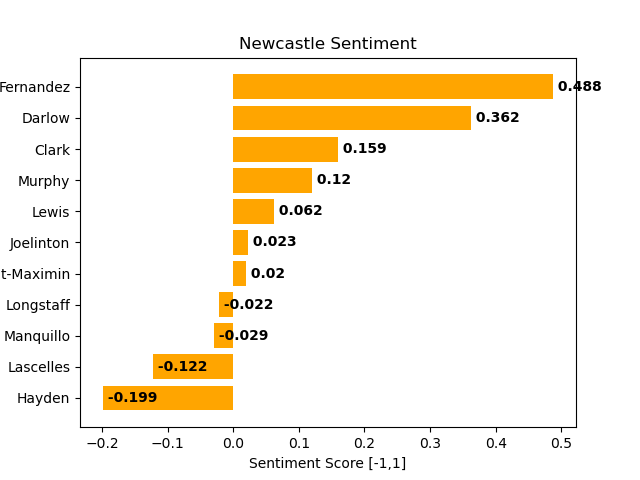
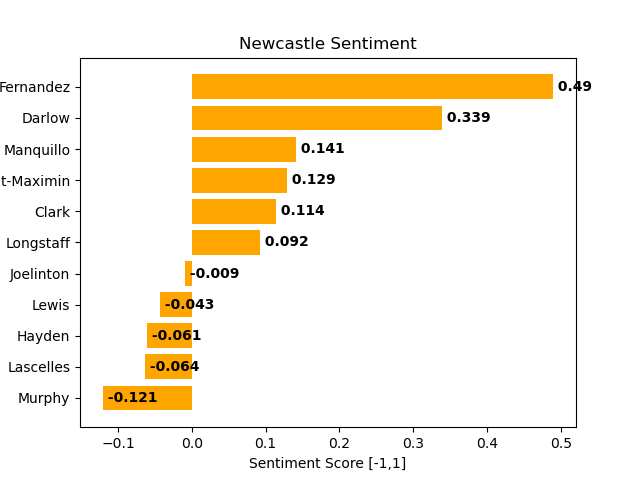
more updates

diff --git a/maincode.py b/maincode.py
@@ -5,6 +5,7 @@ from rank_bm25 import BM25Okapi # import BM25
 import matplotlib.pyplot as plt # import plotting
 plt.ion()
 
+
 auth = tweepy.OAuthHandler(consumer_key, consumer_secret)
 auth.set_access_token(access_token, access_token_secret)
 
@@ -12,55 +13,60 @@ api = tweepy.API(auth,wait_on_rate_limit=True)
 
 ### initialization of team names and starting 11 from the game
 
-Team1 = "Chelsea"
-Team2 = "Newcastle"
+team1 = "Chelsea"
+team2 = "Newcastle"
 
-#Team1
-Team1_Player1 = "Mendy"
-Team1_Player2 = "Rudiger"
-Team1_Player3 = "Zouma"
-Team1_Player4 = "Chilwell"
-Team1_Player5 = "James"
-Team1_Player6 = "Kante"
-Team1_Player7 = "Mount"
-Team1_Player8 = "Kovacic"
-Team1_Player9 = "Abraham"
-Team1_Player10 = "Werner"
-Team1_Player11 = "Ziyech"
+#team1
+team1_Player1 = "Mendy"
+team1_Player2 = "Rudiger"
+team1_Player3 = "Zouma"
+team1_Player4 = "Chilwell"
+team1_Player5 = "James"
+team1_Player6 = "Kante"
+team1_Player7 = "Mount"
+team1_Player8 = "Kovacic"
+team1_Player9 = "Abraham"
+team1_Player10 = "Werner"
+team1_Player11 = "Ziyech"
 
-#Team2
-Team2_Player1 = "Joelinton"
-Team2_Player2 = "Saint-Maximin"
-Team2_Player3 = "Hayden"
-Team2_Player4 = "Longstaff"
-Team2_Player5 = "Murphy"
-Team2_Player6 = "Lewis"
-Team2_Player7 = "Clark"
-Team2_Player8 = "Lascelles"
-Team2_Player9 = "Fernandez"
-Team2_Player10 = "Manquillo"
-Team2_Player11 = "Darlow"
+#team2
+team2_Player1 = "Joelinton"
+team2_Player2 = "Saint-Maximin"
+team2_Player3 = "Hayden"
+team2_Player4 = "Longstaff"
+team2_Player5 = "Murphy"
+team2_Player6 = "Lewis"
+team2_Player7 = "Clark"
+team2_Player8 = "Lascelles"
+team2_Player9 = "Fernandez"
+team2_Player10 = "Manquillo"
+team2_Player11 = "Darlow"
 
-Team1_player_array = [Team1_Player1, Team1_Player2, Team1_Player3, Team1_Player4, Team1_Player5, Team1_Player6, Team1_Player7,
-Team1_Player8, Team1_Player9, Team1_Player10, Team1_Player11] # player array for Team 1
+team1_player_array = [team1_Player1, team1_Player2, team1_Player3, team1_Player4, team1_Player5, team1_Player6, team1_Player7,
+team1_Player8, team1_Player9, team1_Player10, team1_Player11] # player array for Team 1
 
-Team2_player_array = [Team2_Player1, Team2_Player2, Team2_Player3, Team2_Player4, Team2_Player5, Team2_Player6, Team2_Player7,
-Team2_Player8, Team2_Player9, Team2_Player10, Team2_Player11] # player array for Team 2
+team2_player_array = [team2_Player1, team2_Player2, team2_Player3, team2_Player4, team2_Player5, team2_Player6, team2_Player7,
+team2_Player8, team2_Player9, team2_Player10, team2_Player11] # player array for Team 2
 
-Team1_player_sentiment = [] # place holder array for players senitment scores
-Team1_player_tweets = [] # place holder for the tweets for each player that match threshold
+team1_player_sentiment = [] # place holder array for players senitment scores
+team1_player_tweets = [] # place holder for the tweets for each player that match threshold
 
-Team2_player_sentiment = [] # place holder array for players senitment scores
-Team2_player_tweets = [] # place holder for the tweets for each player that match threshold
+team2_player_sentiment = [] # place holder array for players senitment scores
+team2_player_tweets = [] # place holder for the tweets for each player that match threshold
+
+### define the number of tweets we want to sort for and subjective threshold
+
+number_of_tweets = 100 # how many tweets we want to search for
+threshold = 0.10 # threshold for subjectivity [0,1]
 
 ### setting date range, ideally run day after the game
 
 date_since = "2020-11-21"
 date_until = "2020-11-22"
 
-### implementiation for specific terms relating to the game, perhaps for ranking
+### implementiation for specific terms relating to the game, perhaps for ranking in BM25Okapi
 
-game_terms = ['pass','goal','defend','dribble']
+terms = ["score","assist"] # want to weight the sentiment for these terms more than usual, specifically scoring a goal or assisting a goal should be weighted more
 
 ### code to sort by sentiment rating
 
@@ -68,124 +74,127 @@ def sentiment_element(element): # define sorting function
     return element[1]
 
 
-### implementation ranking function to weight?
+### implementation of BM25Okapi to rank relevant of tweets in relation the game
+
+def rank_scores(corpus, terms):
+    bm25 = BM25Okapi(corpus)
+    tweet_scores = bm25.get_scores(terms)
+    top_10_tweets = bm25.get_top_n(terms, corpus, n=10)
+    return tweet_scores
+
+def rank_top(corpus, terms):
+    bm25 = BM25Okapi(corpus)
+    top_10_tweets = bm25.get_top_n(terms, corpus, n=10)
+    return top_10_tweets
 
 
+### loop for Team 1 to find sentiment
 
 
-
-
-
-
-
-
-
-
-
-
-
-### implementation to find highest or lowest sentiment tweets
-
-
-
-
-
-
-
-
-
-
-
-
-
-
-### loop for Team 1
-
-
-# note for self, maybe want to specify POS and relationship to avoid bad classification
-
-
-for i in Team1_player_array: # loop through each player
-    search_words = [i, Team1, Team2] # search array for each player
-    tweets = tweepy.Cursor(api.search,search_words,lang="en",since=date_since).items(100) # find tweets for each player
+for i in team1_player_array: # loop through each player
+    search_words = [i, team1] # search array for each player
+    tweets = tweepy.Cursor(api.search,search_words,lang="en",since=date_since,until=date_until).items(number_of_tweets) # find tweets for each player
     tweet_array = []
     sentiment_array = []
+    combined_array = []
 
     for tweet in tweets:
         tweet_array.append(tweet.text)
         sentiment_array.append(TextBlob(tweet.text).sentiment) # append the sentiment into array
 
-    Team1_player_tweets.append(tweet_array) # create array of all of the respective player tweets
+    for j in range(0,len(tweet_array)): # create combined array to sort
+        combined_array.append([tweet_array[j],sentiment_array[j][0]])
+
+    combined_array.sort(key=sentiment_element)  # sort tweet array by sentiment (remember that lowest sentiment is first)
+
+    team1_player_tweets.append(combined_array) # create array of all of the respective player tweets, which are now sorted by sentiment
 
     sentiment_count = 0 # want to only count sentiments that are subjective
     sentiment_total = 0 # keep track for average
     for sentiment in sentiment_array:
-        if (sentiment[1] >= 0.10): # set threshold for objectivity, 0 = objective, 1 = subjective
+        if (sentiment[1] >= threshold): # set threshold for objectivity, 0 = objective, 1 = subjective
             sentiment_count = sentiment_count + 1
             sentiment_total = sentiment_total + sentiment[0]
 
     if (sentiment_total == 0):
-        Team1_player_sentiment.append([i,0,sentiment_count]) # handle 0 count
+        team1_player_sentiment.append([i,0,sentiment_count]) # handle 0 count
     else:
-        Team1_player_sentiment.append([i,sentiment_total/sentiment_count,sentiment_count])
+        team1_player_sentiment.append([i,sentiment_total/sentiment_count,sentiment_count])
 
 
-### loop for Team 2
+### loop for Team 2 to find sentiment
 
-for i in Team2_player_array: # loop through each player
-    search_words = [i, Team1, Team2] # search array for each player
-    tweets = tweepy.Cursor(api.search,search_words,lang="en",since=date_since).items(100) # find tweets for each player
+for i in team2_player_array: # loop through each player
+    search_words = [i, team2] # search array for each player
+    tweets = tweepy.Cursor(api.search,search_words,lang="en",since=date_since,until=date_until).items(number_of_tweets) # find tweets for each player
     tweet_array = []
     sentiment_array = []
+    combined_array = []
 
     for tweet in tweets:
         tweet_array.append(tweet.text)
         sentiment_array.append(TextBlob(tweet.text).sentiment) # append the sentiment into array
 
-    Team2_player_tweets.append(tweet_array) # create array of all of the respective player tweets
+    for j in range(0,len(tweet_array)): # create combined array to sort
+        combined_array.append([tweet_array[j],sentiment_array[j][0]])
+
+    combined_array.sort(key=sentiment_element)  # sort tweet array by sentiment (remember that lowest sentiment is first)
+
+    team2_player_tweets.append(combined_array) # create array of all of the respective player tweets, which are now sorted by sentiment
 
     sentiment_count = 0 # want to only count sentiments that are subjective
     sentiment_total = 0 # keep track for average
     for sentiment in sentiment_array:
-        if (sentiment[1] >= 0.10): # set threshold for objectivity
+        if (sentiment[1] >= threshold): # set threshold for objectivity
             sentiment_count = sentiment_count + 1
             sentiment_total = sentiment_total + sentiment[0]
 
 
     if (sentiment_total == 0):
-        Team2_player_sentiment.append([i,0,sentiment_count]) # handle 0 count
+        team2_player_sentiment.append([i,0,sentiment_count]) # handle 0 count
     else:
-        Team2_player_sentiment.append([i,sentiment_total/sentiment_count,sentiment_count])
+        team2_player_sentiment.append([i,sentiment_total/sentiment_count,sentiment_count])
+
+
+### display the top 10 min and max sentiment tweets for a player based on team
+
+def display_tweets(team, player_number):
+    if (team == team1):
+        print(team1_player_tweets[player_number-1][0:9]) # negative sentiment
+        print(team1_player_tweets[player_number-1][number_of_tweets-11:number_of_tweets-1]) # positive sentiment
+    else:
+        print(team2_player_tweets[player_number-1][0:9]) # negative sentiment
+        print(team2_player_tweets[player_number-1][number_of_tweets-11:number_of_tweets-1]) # positive sentiment
 
 
 ### sort each senitment array and organize for plotting
 
-Team1_player_sentiment.sort(key=sentiment_element)
-Team2_player_sentiment.sort(key=sentiment_element)
+team1_player_sentiment.sort(key=sentiment_element)
+team2_player_sentiment.sort(key=sentiment_element)
 
 # create index for team 1
-Team1_Index = []
-Team1_Sentiment = []
-for i in Team1_player_sentiment:
-    Team1_Index.append(i[0])
-    Team1_Sentiment.append(round(i[1],3))
+team1_Index = []
+team1_Sentiment = []
+for i in team1_player_sentiment:
+    team1_Index.append(i[0])
+    team1_Sentiment.append(round(i[1],3))
 
 # create index for team 2
-Team2_Index = []
-Team2_Sentiment = []
-for i in Team2_player_sentiment:
-    Team2_Index.append(i[0])
-    Team2_Sentiment.append(round(i[1],3))
+team2_Index = []
+team2_Sentiment = []
+for i in team2_player_sentiment:
+    team2_Index.append(i[0])
+    team2_Sentiment.append(round(i[1],3))
 
 
 ### create bar graphs displaying data and then save down
 
 def plot_bar_team1():
     fig, ax = plt.subplots()
-    ax.barh(Team1_Index, Team1_Sentiment, color = "lightblue")
-    plt.title(Team1 + ' Sentiment')
+    ax.barh(team1_Index, team1_Sentiment, color = "lightblue")
+    plt.title(team1 + ' Sentiment')
     plt.xlabel('Sentiment Score [-1,1]')
-    for i, v in enumerate(Team1_Sentiment):
+    for i, v in enumerate(team1_Sentiment):
         ax.text(v, i, " " + str(v), color='black', va = 'center', fontweight='bold')
     plt.savefig('team1.png')
 
@@ -193,10 +202,10 @@ plot_bar_team1()
 
 def plot_bar_team2():
     fig, ax = plt.subplots()
-    ax.barh(Team2_Index, Team2_Sentiment, color = "orange")
-    plt.title(Team2 + ' Sentiment')
+    ax.barh(team2_Index, team2_Sentiment, color = "orange")
+    plt.title(team2 + ' Sentiment')
     plt.xlabel('Sentiment Score [-1,1]')
-    for i, v in enumerate(Team2_Sentiment):
+    for i, v in enumerate(team2_Sentiment):
         ax.text(v, i, " " + str(v), color='black', va = 'center', fontweight='bold')
     plt.savefig('team2.png')
 
